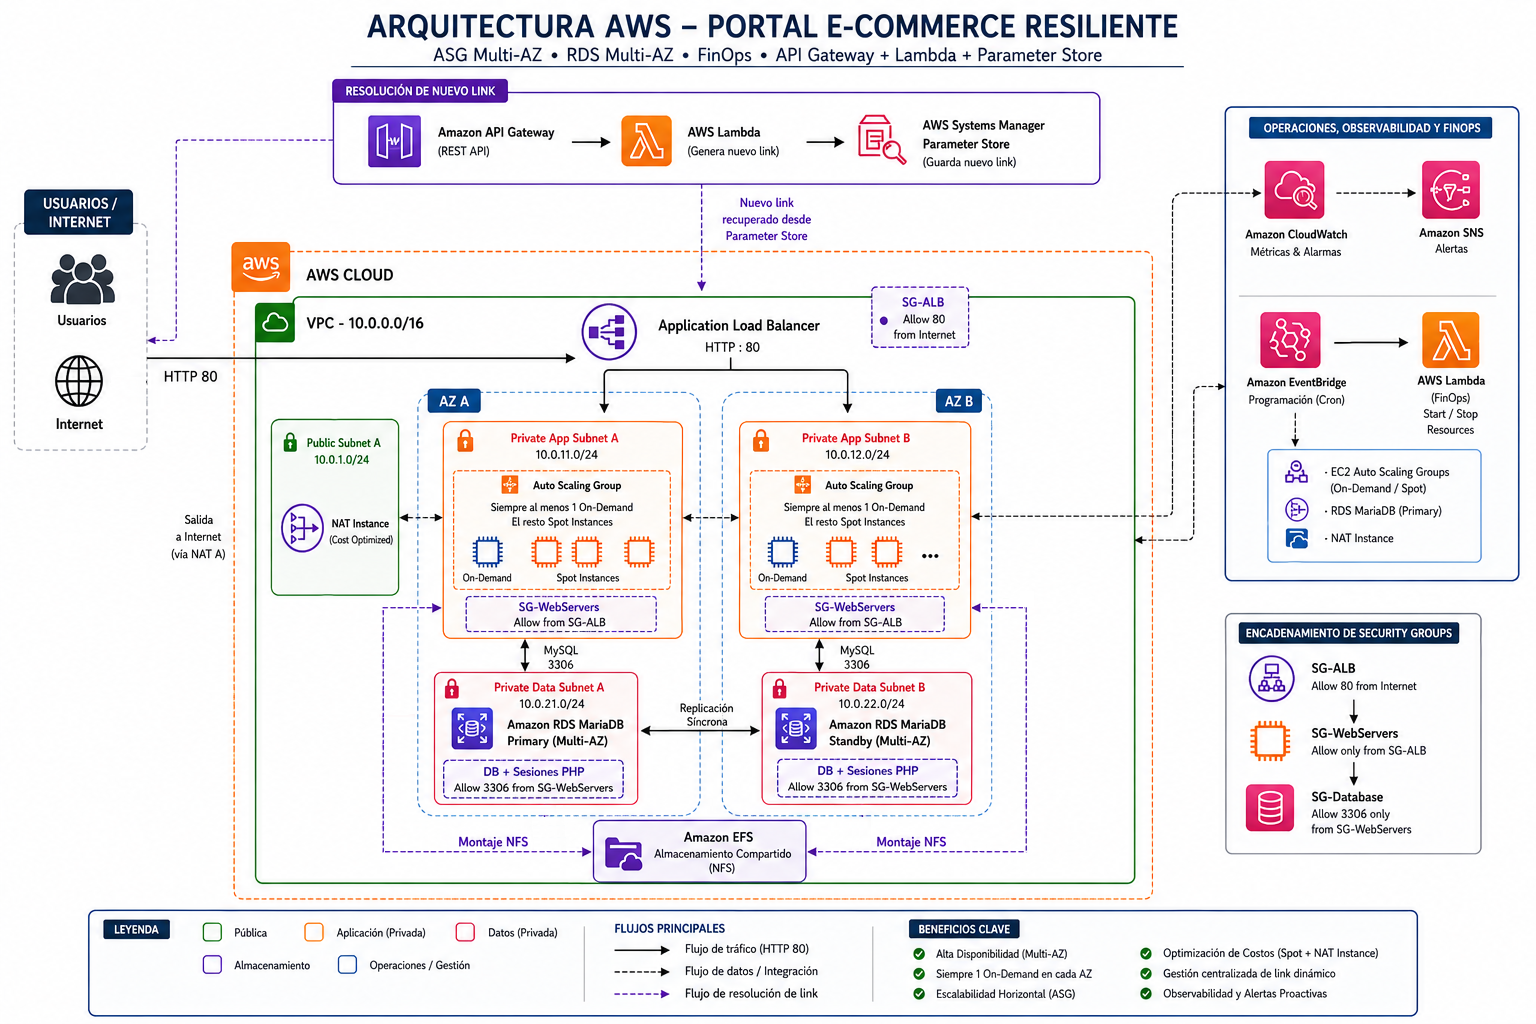
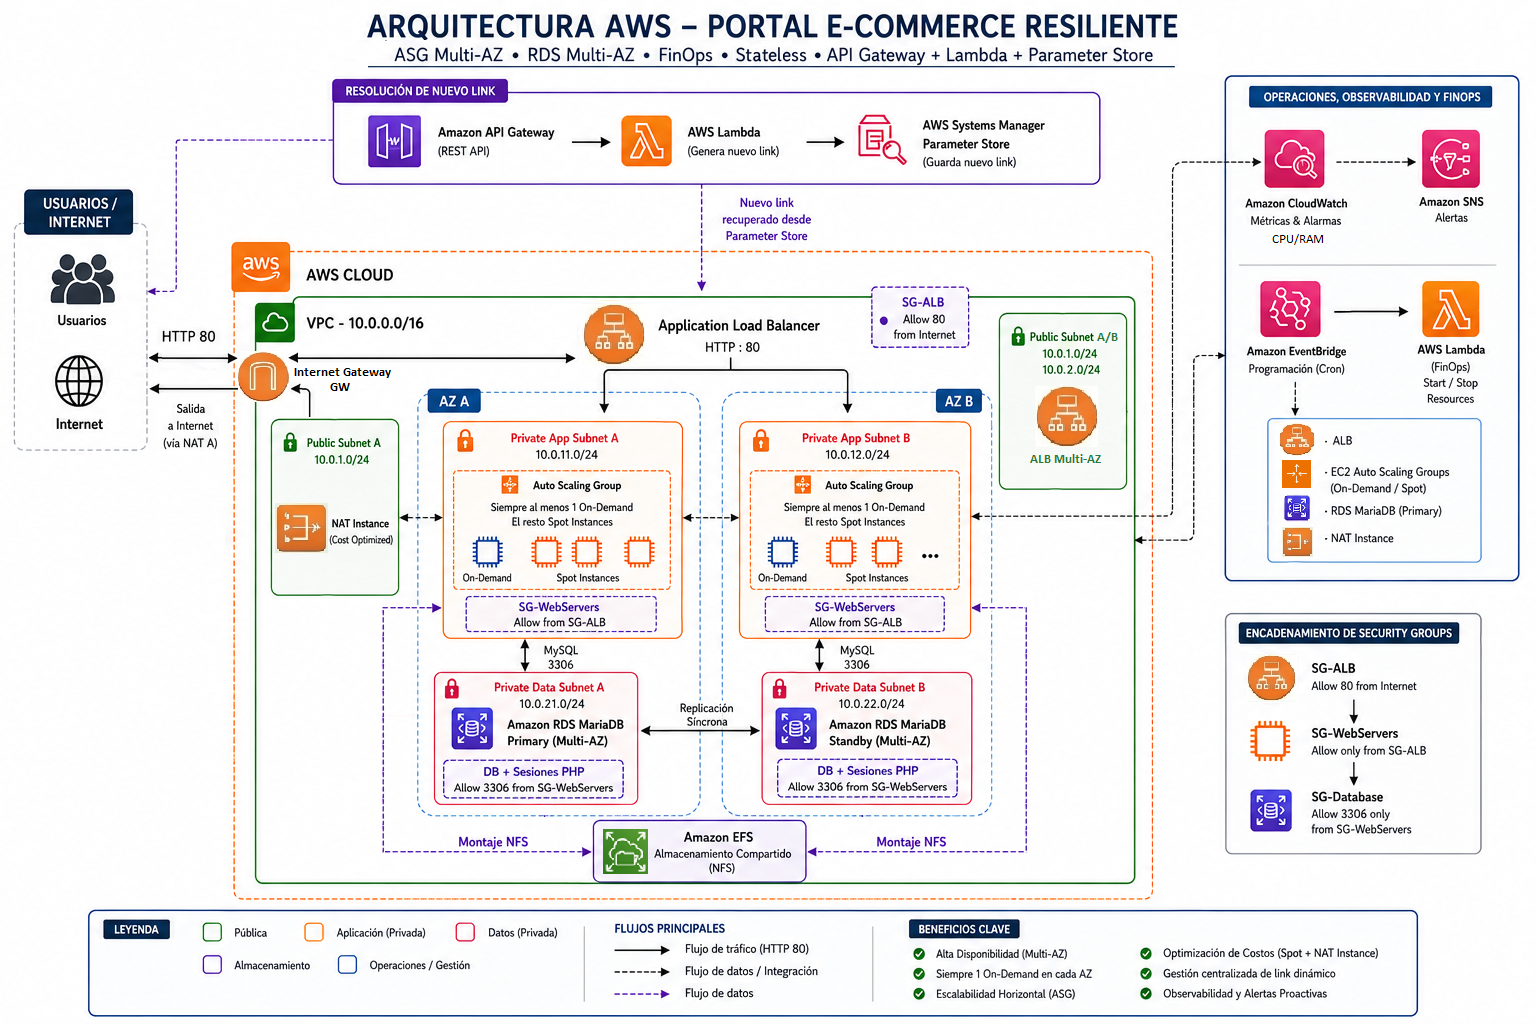
chore: cleanup duplicate files and sync project structure

diff --git a/docs/architecture.md b/docs/architecture.md
@@ -24,14 +24,14 @@ Internet((🌍 Internet))
 %% =====================================================
 subgraph LINK["RESOLUCIÓN DE NUEVO LINK"]
 
-    APIGW["🔌 Amazon API Gateway<br/>REST API"]
+    APIGW["🔌 Amazon API Gateway<br/>REST API"]
 
-    LambdaURL["⚡ AWS Lambda<br/>(Genera nuevo link)"]
+    LambdaURL["⚡ AWS Lambda<br/>(Genera nuevo link)"]
 
-    ParameterStore["📄 AWS Systems Manager<br/>Parameter Store<br/>(Guarda nuevo link)"]
+    ParameterStore["📄 AWS Systems Manager<br/>Parameter Store<br/>(Guarda nuevo link)"]
 
-    APIGW --> LambdaURL
-    LambdaURL --> ParameterStore
+    APIGW --> LambdaURL
+    LambdaURL --> ParameterStore
 
 end
 
@@ -40,79 +40,84 @@ end
 %% =====================================================
 subgraph AWS["☁ AWS CLOUD"]
 
-    subgraph VPC["🌐 VPC - 10.0.0.0/16"]
+    subgraph VPC["🌐 VPC - 10.0.0.0/16"]
 
-        %% =========================================
-        %% LOAD BALANCER
-        %% =========================================
-        ALB["⚖ Application Load Balancer<br/>HTTP : 80"]
+        %% =========================================
+        %% INTERNET GATEWAY (Borde de la VPC)
+        %% =========================================
+        IGW["🚪 Internet Gateway (IGW)"]
 
-        %% =========================================
-        %% PUBLIC SUBNET A
-        %% =========================================
-        subgraph PUBA["🟢 Public Subnet A<br/>10.0.1.0/24"]
+        %% =========================================
+        %% LOAD BALANCER
+        %% =========================================
+        ALB["⚖ Application Load Balancer<br/>HTTP : 80"]
 
-            NATA["🛜 NAT Instance<br/>(Cost Optimized)"]
+        %% =========================================
+        %% PUBLIC SUBNET A
+        %% =========================================
+        subgraph PUBA["🟢 Public Subnet A<br/>10.0.1.0/24"]
 
-        end
+            NATA["🛜 NAT Instance<br/>(Cost Optimized)"]
 
-        %% =========================================
-        %% AZ A
-        %% =========================================
-        subgraph AZA["🏢 AZ A"]
+        end
 
-            subgraph APPA["🟠 Private App Subnet A<br/>10.0.11.0/24"]
+        %% =========================================
+        %% AZ A
+        %% =========================================
+        subgraph AZA["🏢 AZ A"]
 
-                ASGA["💻 Auto Scaling Group<br/><br/>Siempre al menos 1 On-Demand<br/>El resto Spot Instances"]
+            subgraph APPA["🟠 Private App Subnet A<br/>10.0.11.0/24"]
 
-                ONDA["🟦 On-Demand"]
-                SPOTA1["🟧 Spot"]
-                SPOTA2["🟧 Spot"]
-                SPOTA3["🟧 Spot"]
+                ASGA["💻 Auto Scaling Group<br/><br/>Siempre al menos 1 On-Demand<br/>El resto Spot Instances"]
 
-            end
+                ONDA["🟦 On-Demand"]
+                SPOTA1["🟧 Spot"]
+                SPOTA2["🟧 Spot"]
+                SPOTA3["🟧 Spot"]
 
-            subgraph DATAA["🔴 Private Data Subnet A<br/>10.0.21.0/24"]
+            end
 
-                RDSP[("🗄 Amazon RDS MariaDB<br/>Primary (Multi-AZ)")]
+            subgraph DATAA["🔴 Private Data Subnet A<br/>10.0.21.0/24"]
 
-                DBA["DB + Sesiones PHP<br/><br/>Allow 3306 from SG-WebServers"]
+                RDSP[("🗄 Amazon RDS MariaDB<br/>Primary (Multi-AZ)")]
 
-            end
+                DBA["DB + Sesiones PHP<br/><br/>Allow 3306 from SG-WebServers"]
 
-        end
+            end
 
-        %% =========================================
-        %% AZ B
-        %% =========================================
-        subgraph AZB["🏢 AZ B"]
+        end
 
-            subgraph APPB["🟠 Private App Subnet B<br/>10.0.12.0/24"]
+        %% =========================================
+        %% AZ B
+        %% =========================================
+        subgraph AZB["🏢 AZ B"]
 
-                ASGB["💻 Auto Scaling Group<br/><br/>Siempre al menos 1 On-Demand<br/>El resto Spot Instances"]
+            subgraph APPB["🟠 Private App Subnet B<br/>10.0.12.0/24"]
 
-                ONDB["🟦 On-Demand"]
-                SPOTB1["🟧 Spot"]
-                SPOTB2["🟧 Spot"]
+                ASGB["💻 Auto Scaling Group<br/><br/>Siempre al menos 1 On-Demand<br/>El resto Spot Instances"]
 
-            end
+                ONDB["🟦 On-Demand"]
+                SPOTB1["🟧 Spot"]
+                SPOTB2["🟧 Spot"]
 
-            subgraph DATAB["🔴 Private Data Subnet B<br/>10.0.22.0/24"]
+            end
 
-                RDSS[("🗄 Amazon RDS MariaDB<br/>Standby (Multi-AZ)")]
+            subgraph DATAB["🔴 Private Data Subnet B<br/>10.0.22.0/24"]
 
-                DBB["DB + Sesiones PHP<br/><br/>Allow 3306 from SG-WebServers"]
+                RDSS[("🗄 Amazon RDS MariaDB<br/>Standby (Multi-AZ)")]
 
-            end
+                DBB["DB + Sesiones PHP<br/><br/>Allow 3306 from SG-WebServers"]
 
-        end
+            end
 
-        %% =========================================
-        %% STORAGE
-        %% =========================================
-        EFS[("📁 Amazon EFS<br/>Almacenamiento Compartido<br/>(NFS)")]
+        end
 
-    end
+        %% =========================================
+        %% STORAGE
+        %% =========================================
+        EFS[("📁 Amazon EFS<br/>Almacenamiento Compartido<br/>(NFS)")]
+
+    end
 
 end
 
@@ -121,19 +126,19 @@ end
 %% =====================================================
 subgraph OPS["📊 OPERACIONES, OBSERVABILIDAD Y FINOPS"]
 
-    CW["📈 Amazon CloudWatch<br/>Métricas & Alarmas"]
+    CW["📈 Amazon CloudWatch<br/>Métricas & Alarmas"]
 
-    SNS["📩 Amazon SNS<br/>Alertas"]
+    SNS["📩 Amazon SNS<br/>Alertas"]
 
-    EventBridge["🕒 Amazon EventBridge<br/>Programación (Cron)"]
+    EventBridge["🕒 Amazon EventBridge<br/>Programación (Cron)"]
 
-    LambdaFinOps["⚡ AWS Lambda<br/>(FinOps)<br/>Start / Stop Resources"]
+    LambdaFinOps["⚡ AWS Lambda<br/>(FinOps)<br/>Start / Stop Resources"]
 
-    RES["• EC2 Auto Scaling Groups<br/>• RDS MariaDB (Primary)<br/>• NAT Instance"]
+    RES["• EC2 Auto Scaling Groups<br/>• RDS MariaDB (Primary)<br/>• NAT Instance"]
 
-    CW --> SNS
-    EventBridge --> LambdaFinOps
-    LambdaFinOps --> RES
+    CW --> SNS
+    EventBridge --> LambdaFinOps
+    LambdaFinOps --> RES
 
 end
 
@@ -142,22 +147,23 @@ end
 %% =====================================================
 subgraph SG["🔐 ENCADENAMIENTO DE SECURITY GROUPS"]
 
-    SGALB["SG-ALB<br/>Allow 80 from Internet"]
+    SGALB["SG-ALB<br/>Allow 80 from Internet"]
 
-    SGWEB["SG-WebServers<br/>Allow only from SG-ALB"]
+    SGWEB["SG-WebServers<br/>Allow only from SG-ALB"]
 
-    SGDB["SG-Database<br/>Allow 3306 only<br/>from SG-WebServers"]
+    SGDB["SG-Database<br/>Allow 3306 only<br/>from SG-WebServers"]
 
-    SGALB --> SGWEB
-    SGWEB --> SGDB
+    SGALB --> SGWEB
+    SGWEB --> SGDB
 
 end
 
 %% =====================================================
-%% FLUJO PRINCIPAL
+%% FLUJO PRINCIPAL (Con IGW)
 %% =====================================================
 User --> Internet
-Internet -->|HTTP 80| ALB
+Internet --> IGW
+IGW -->|HTTP 80| ALB
 
 %% =====================================================
 %% API GATEWAY RESOLUCIÓN
@@ -186,10 +192,11 @@ EFS <-.->|Montaje NFS| ASGA
 EFS <-.->|Montaje NFS| ASGB
 
 %% =====================================================
-%% NAT INTERNET ACCESS
+%% NAT INTERNET ACCESS (Con IGW)
 %% =====================================================
 ASGA -.->|Salida a Internet vía NAT A| NATA
 ASGB -.->|Salida a Internet vía NAT A| NATA
+NATA -.->|Tráfico de salida| IGW
 
 %% =====================================================
 %% MONITOREO
@@ -208,10 +215,11 @@ SGWEB -. Attached .-> ASGB
 SGDB -. Attached .-> RDSP
 
 %% =====================================================
-%% ESTILOS
+%% ESTILOS ADICIONALES
 %% =====================================================
 class AWS aws;
 class VPC network;
+class IGW aws;
 class PUBA public;
 class APPA,APPB privateApp;
 class DATAA,DATAB privateData;
